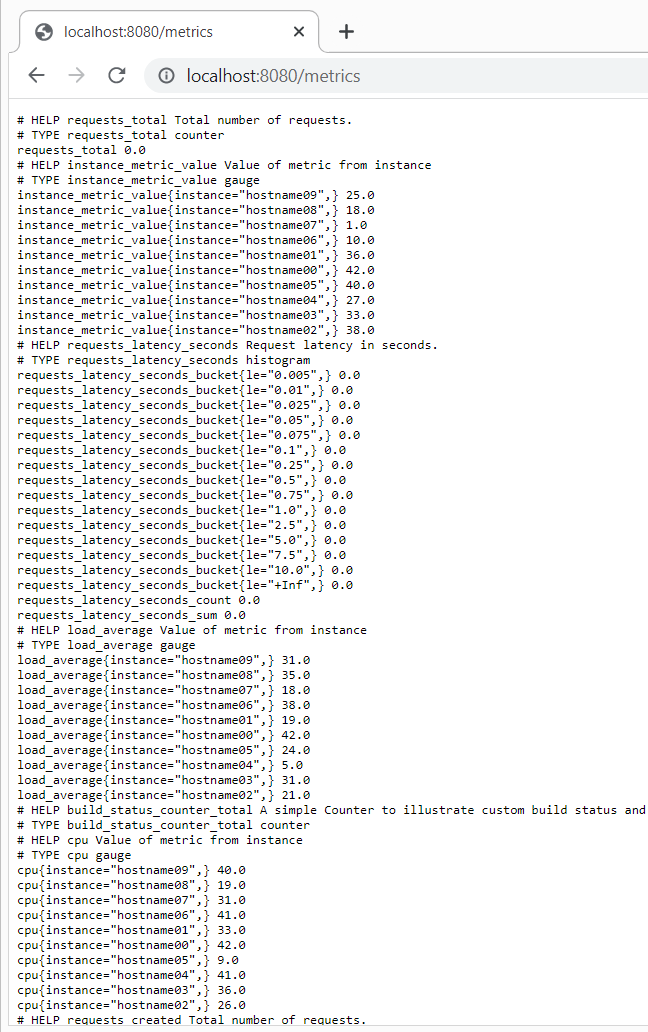
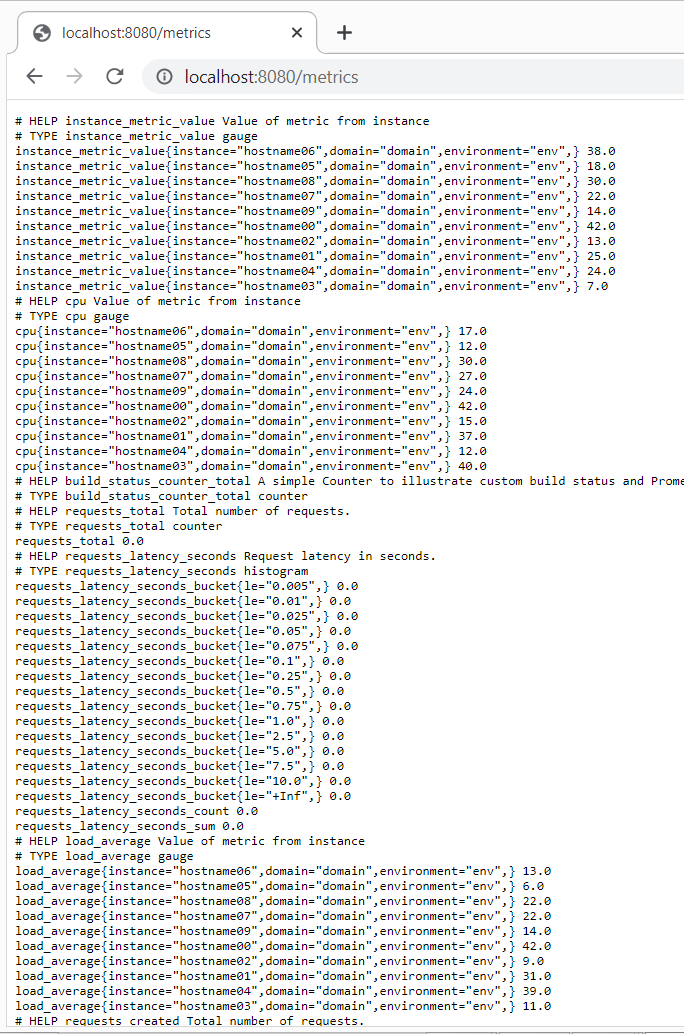
intermediate revision - add multiple labels: "instance","dc","environment"

diff --git a/basic-prometheus-counter/src/main/java/example/controller/AppController.java b/basic-prometheus-counter/src/main/java/example/controller/AppController.java
@@ -49,6 +49,9 @@ public class AppController {
 	// https://prometheus.github.io/client_java/io/prometheus/client/Gauge.html
 	private static final boolean debug = false;
 	private static final String instance = "hostname";
+	private static String domain = "domain";
+	private static String env = "env";
+
 	private CollectorRegistry registry;
 	private Gauge example = null;
 	static final Counter requestsTotal = Counter.build().name("requests_total")
@@ -138,7 +141,7 @@ public class AppController {
 			if (!metricNames.contains((Object) counterName)) {
 				Builder builder = Gauge
 						.build(counterName, "Value of metric from instance")
-						.labelNames("instance");
+						.labelNames("instance", "domain", "environment");
 				example = builder.register(registry);
 			}
 		} catch (Exception e) {
@@ -149,11 +152,11 @@ public class AppController {
 
 	private void exampleGauge(String counterName) {
 		logger.info("Starting building custom metrics");
-		example.labels(instance + "00").set(42);
+		example.labels(instance + "00", domain, env).set(42);
 		for (int i = 1; i < length; i++) {
 			value = random.nextInt((int) 42);
 			String hostname = String.format("%s%02d", instance, i);
-			example.labels(hostname).set(value);
+			example.labels(hostname, domain, env).set(value);
 			if (debug)
 				logger.info("Added example gauge " + hostname + " : "
 						+ example.labels(hostname).get());

diff --git a/basic-prometheus-counter/src/test/java/example/controller/ControllerTests.java b/basic-prometheus-counter/src/test/java/example/controller/ControllerTests.java
@@ -78,7 +78,9 @@ public class ControllerTests {
 		List<String> extraMetrics = Arrays.asList(
 				String.format("# HELP %s Value of metric from instance", counterName),
 				String.format("# TYPE %s gauge", counterName),
-				String.format("%s{instance=\"hostname00\",} 42.0", counterName));
+				String.format(
+						"%s{instance=\"hostname00\",domain=\"domain\",environment=\"env\",} 42.0",
+						counterName));
 		// https://stackoverflow.com/questions/80476/how-can-i-concatenate-two-arrays-in-java
 		// https://stackoverflow.com/questions/189559/how-do-i-join-two-lists-in-java
 		List<String> metrics = new ArrayList<String>();
@@ -111,7 +113,8 @@ public class ControllerTests {
 				String.class);
 
 		String entryPattern = String.format(
-				"%s\\{instance=\\\"hostname[0-9]+\\\",\\} [0-9.]+", counterName);
+				"%s\\{instance=\\\"hostname[0-9]+\\\",domain=\\\"domain\\\",environment=\\\"env\\\",\\} [0-9.]+",
+				counterName);
 		List<String> entries = Arrays.asList(entity.getBody().split("\n")).stream()
 				.filter(o -> o.contains(counterName))
 				.filter(o -> o.contains("hostname")).collect(Collectors.toList());

diff --git a/basic-prometheus-counter/README.md b/basic-prometheus-counter/README.md
@@ -100,16 +100,16 @@ along with custom  metrics
 ```text
 # HELP instance_metric_value Value of metric from instance
 # TYPE instance_metric_value gauge
-instance_metric_value{instance="hostname09",} 12.0
-instance_metric_value{instance="hostname08",} 33.0
-instance_metric_value{instance="hostname07",} 15.0
-instance_metric_value{instance="hostname06",} 12.0
-instance_metric_value{instance="hostname01",} 27.0
-instance_metric_value{instance="hostname00",} 42.0
-instance_metric_value{instance="hostname05",} 20.0
-instance_metric_value{instance="hostname04",} 9.0
-instance_metric_value{instance="hostname03",} 38.0
-instance_metric_value{instance="hostname02",} 37.0
+instance_metric_value{instance="hostname09",domain="domain",environment="env",} 12.0
+instance_metric_value{instance="hostname08",domain="domain",environment="env",} 33.0
+instance_metric_value{instance="hostname07",domain="domain",environment="env",} 15.0
+instance_metric_value{instance="hostname06",domain="domain",environment="env",} 12.0
+instance_metric_value{instance="hostname01",domain="domain",environment="env",} 27.0
+instance_metric_value{instance="hostname00",domain="domain",environment="env",} 42.0
+instance_metric_value{instance="hostname05",domain="domain",environment="env",} 20.0
+instance_metric_value{instance="hostname04",domain="domain",environment="env",} 9.0
+instance_metric_value{instance="hostname03",domain="domain",environment="env",} 38.0
+instance_metric_value{instance="hostname02",domain="domain",environment="env",} 37.0
 ```
 there are few: `load_average`, `cpu`, `instance_metric_value` with random values
 
